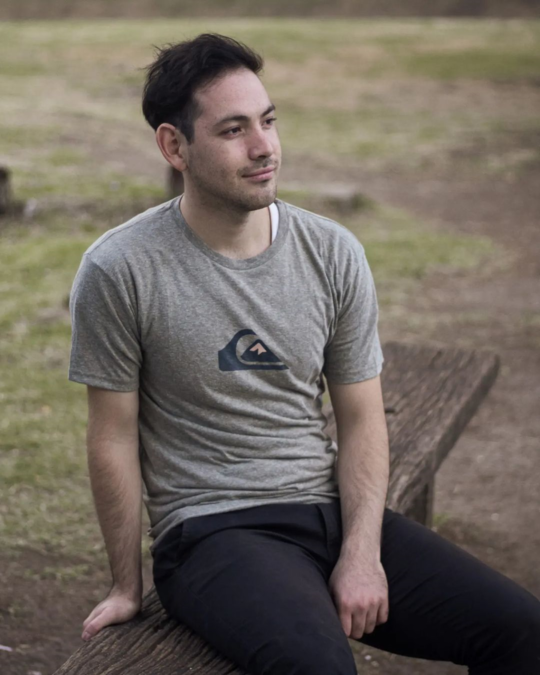
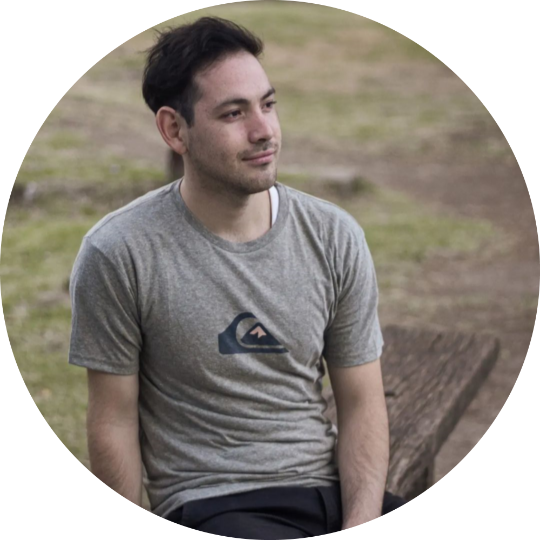
changing the header

diff --git a/myportfolio/styles/styles.css b/myportfolio/styles/styles.css
@@ -30,30 +30,74 @@ h2{
 }
 
 header{
+    font-family: "Staatliches" , Helvetica, sans-serif ;
     display: grid;
-    grid-template-columns: 150px auto;
+    grid-template-columns: 150px auto 300px;
     background-color: #ffd60a;
     color: #000814;
     text-align: left;
+    align-items: center;
     margin-top: 40px;
-    font-weight: bold;
+}
+
+header a{
+    font-size: 1.5em;
+}
+
+#img-head{
+    border-radius: 80%;
+    max-width: 200px;
+    max-height: 200px;
+    padding: 50px;
+    
+}
+#nav-bar{
+    display: grid;
+    margin-top: 70px;
+    margin-bottom: 70px;
+    border-radius: 2cm;
+    background-color: white;
 }
 
 nav {
-    display: flex;
-    justify-content: space-around;
+    grid-template-columns: 1fr 1fr 1fr ;
+    /*justify-content: space-around;*/
     color: #000814;
+    border-radius: 2cm;
 
 }
 
+#first-a{
+    text-align: center;
+    border-top-left-radius: 1cm;
+    border-bottom-left-radius: 1cm;
+    grid-column:1/2;
+    grid-row: 1/2;
+
+}
+#middle-a{
+    text-align: center;
+    grid-column: 2/3;
+    grid-row: 1/2;
+}
+
+#last-a{
+    text-align: center;
+    border-top-right-radius: 1cm ;
+    border-bottom-right-radius: 1cm ;
+    grid-column: 3/4;
+    grid-row: 1/2;
+}
 nav a:hover{
     text-decoration: underline;
     background-color: #000000;
     color: white;
 }
 
+
 nav a{
-    padding: 35px;
+    border-style:groove;
+    padding: 15px;
     text-decoration: none;
     color: #000814;
 }
@@ -94,6 +138,7 @@ footer p a:hover {
 }
 
 footer a{
+    font-size: 1.2em;
     text-decoration: none;
     background-color: #ffd60a;
     color: black;
@@ -143,6 +188,7 @@ footer .social img{
 }
 
 .contact-img{
+    
     margin: 30px;
     grid-column: 5/11 ;
     grid-row: 1/4;
@@ -153,15 +199,14 @@ footer .social img{
 
 
 .home-msg1{
-    text-align: center;
-    margin: 30px;
-    padding: 35px;
-    background-color: #bbbfc3;
-    line-height: 2.5em;
+    z-index: -1;
+    margin-left: 60px;
+    text-align: left;
+    /*background-color: #bbbfc3;*/
     grid-column: 1/5 ;
-    grid-row: 1/4;
-    box-shadow: 5px 5px 10px black;
-    border-radius: 0.25cm;
+    grid-row: 2/3;
+    /*box-shadow: 5px 5px 10px black;
+    border-radius: 0.25cm;*/
 }
 
 .about-msg1{
@@ -193,15 +238,14 @@ footer .social img{
 }
 
 .home-msg1 h2{
-    font-family: "Staatliches" , Helvetica, sans-serif ;
+    /*font-family: "Staatliches" , Helvetica, sans-serif ;*/
+    font-family: "Raleway", Helvetica, sans-serif;;
+    font-size: 45px;
     color: #000814;
+    margin: 2px
 }
 
-.home-msg1 p{
-    padding-bottom: 15px;
-    font-size: .8em;
-    color: #000814;
-}
+
 
 .contact-form {
     grid-column: 1/5;

diff --git a/myportfolio/index.html b/myportfolio/index.html
@@ -14,21 +14,22 @@
             <img class="logo" src="images/3.png" alt="Eze web Logo" >
         </a> 
         <nav>
-        <a href="index.html">Home</a>
-        <a href="about.html">About</a>
-        <a href="site-plan-portfolio.html">Site Plan</a>
-        <a href="contact-me.html">Contact</a>
+            <section id="nav-bar">
+            <a id="first-a" href="index.html">Home</a>
+            <a id="middle-a" href="about.html">About</a>
+            <a id="last-a"   href="contact-me.html">Contact</a>
+            </section>
         </nav>
+        <img id="img-head" src="images/eze4.png" alt="Eze Pic">
     </header>
 <main class="home-grid">
 
 
     <img class="wireframe-img" src="images/wireframe-idea2.jpg" alt="image of wireframe">
     <section class="home-msg1">
-        <h1>
-            Hello! I am Ezequiel, a passionate and dedicated professional with experience in Web Design front-end and back-end. 
-            My focus is on Web Pages for small businesses.        
-        </h1>
+        <h2>Hello! I am 
+        <h2>Ezequiel and I do</h2> 
+        <h2>Web Design </h2>                
     </section>
 </main>
 
@@ -36,6 +37,7 @@
 
 
     <footer>
+        <a href="site-plan-portfolio.html">Site Plan</a>
         <p>My Portfolio &copy; 2023 - Ezequiel Albarracin</p>
     <div class="social">
         <a href="https://facebook.com" target="_blank">

diff --git a/myportfolio/contact-me.html b/myportfolio/contact-me.html
@@ -14,11 +14,13 @@
             <img class="logo" src="images/3.png" alt="Eze web Logo" >
         </a> 
         <nav>
-        <a href="index.html">Home</a>
-        <a href="about.html">About</a>
-        <a href="site-plan-portfolio.html">Site Plan</a>
-        <a href="contact-me.html">Contact</a>
+            <section id="nav-bar">
+            <a id="first-a" href="index.html">Home</a>
+            <a id="middle-a" href="about.html">About</a>
+            <a id="last-a"   href="contact-me.html">Contact</a>
+            </section>
         </nav>
+        <img id="img-head" src="images/eze4.png" alt="Eze Pic">
     </header>
 <main class="contact-grid">
     <section class="contact-form">
@@ -51,6 +53,7 @@
 
 
 <footer>
+    <a href="site-plan-portfolio.html">Site Plan</a>
     <p>My Portfolio &copy; 2023 - Ezequiel Albarracin</p>
 <div class="social">
     <a href="https://facebook.com" target="_blank">

diff --git a/myportfolio/about.html b/myportfolio/about.html
@@ -14,11 +14,13 @@
             <img class="logo" src="images/3.png" alt="Eze web Logo" >
         </a> 
         <nav>
-        <a href="index.html">Home</a>
-        <a href="about.html">About</a>
-        <a href="site-plan-portfolio.html">Site Plan</a>
-        <a href="contact-me.html">Contact</a>
+            <section id="nav-bar">
+            <a id="first-a" href="index.html">Home</a>
+            <a id="middle-a" href="about.html">About</a>
+            <a id="last-a"   href="contact-me.html">Contact</a>
+            </section>
         </nav>
+        <img id="img-head" src="images/eze4.png" alt="Eze Pic">
     </header>
 <main class="about-grid">
 
@@ -37,6 +39,8 @@
 
 
 <footer>
+    <a href="site-plan-portfolio.html">Site Plan</a>
+
     <p>My Portfolio &copy; 2023 - Ezequiel Albarracin</p>
 <div class="social">
     <a href="https://facebook.com" target="_blank">
